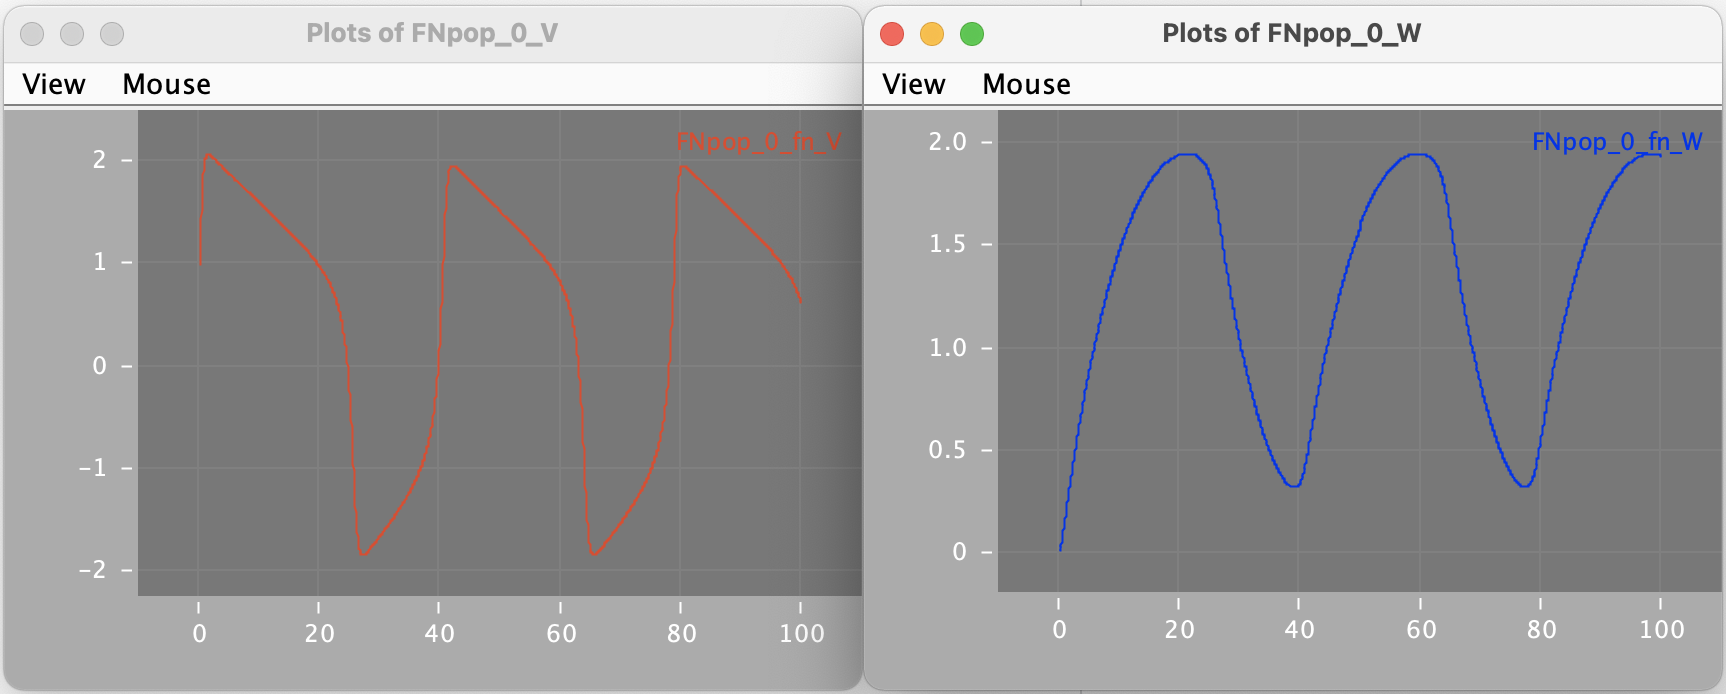
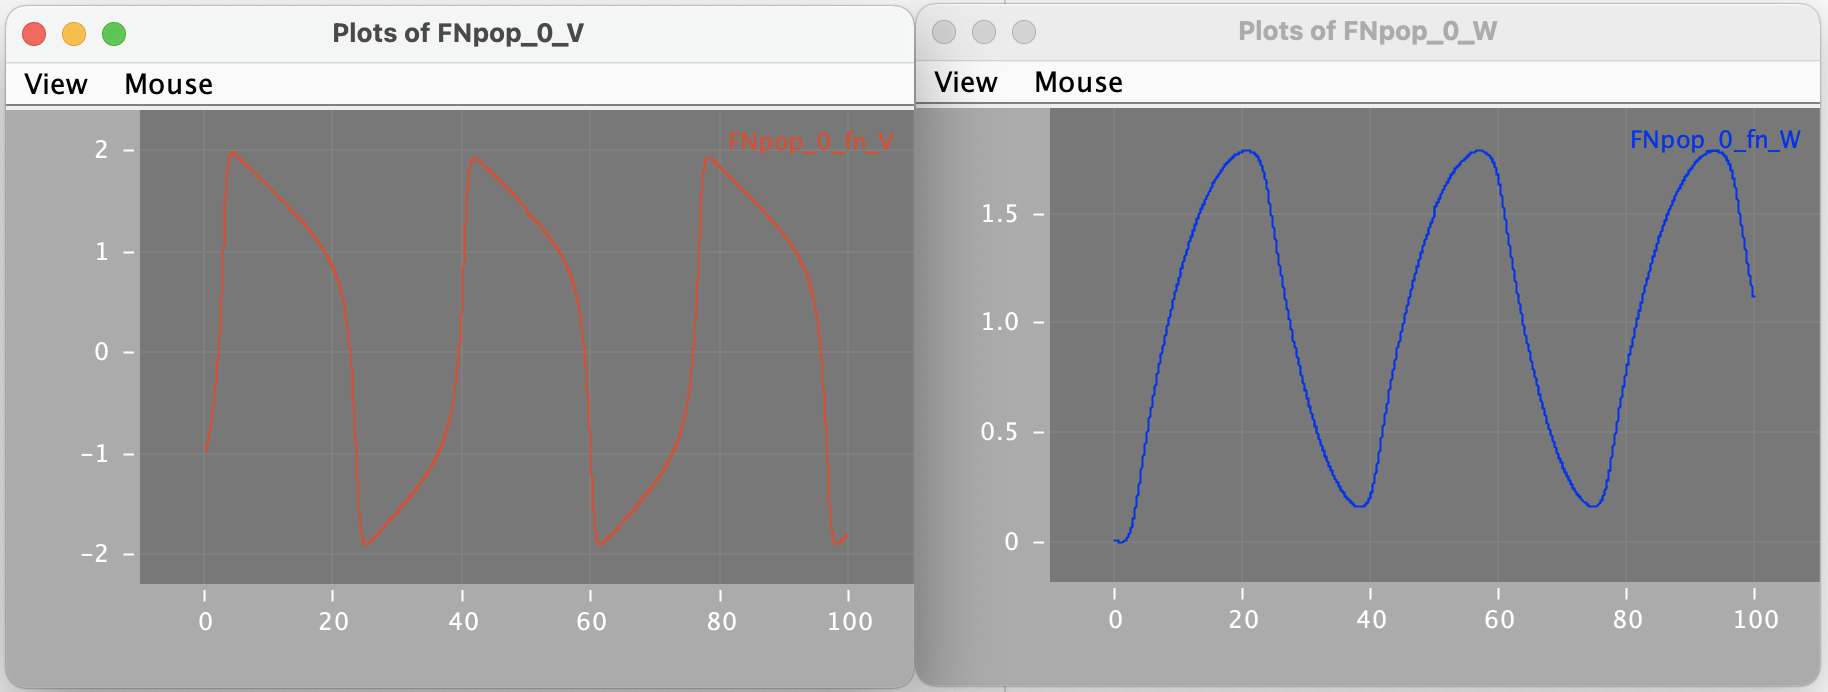
Updated nml to match

diff --git a/examples/NeuroML/FN.py b/examples/NeuroML/FN.py
@@ -8,7 +8,7 @@ import sys
 
 def generate():
 
-    dt = 0.005
+    dt = 0.05
     simtime = 100
 
     ################################################################################
@@ -18,7 +18,7 @@ def generate():
     net.notes = 'FitzHugh Nagumo cell model - originally specified in NeuroML/LEMS'
 
     net.parameters = { 'initial_w': 0.0,
-                       'initial_v': 1,
+                       'initial_v': -1,
                        'a_v': -0.3333333333333333,
                        'b_v': 0.0,
                        'c_v': 1.0,
@@ -33,7 +33,7 @@ def generate():
                        'threshold': -1.0,
                        'mode': 1.0,
                        'uncorrelated_activity': 0.0,
-                       'Iext': .2 }
+                       'Iext': 0 }
 
     cellInput = Cell(id='fn',
                      lems_source_file='FN_Definitions.xml',
